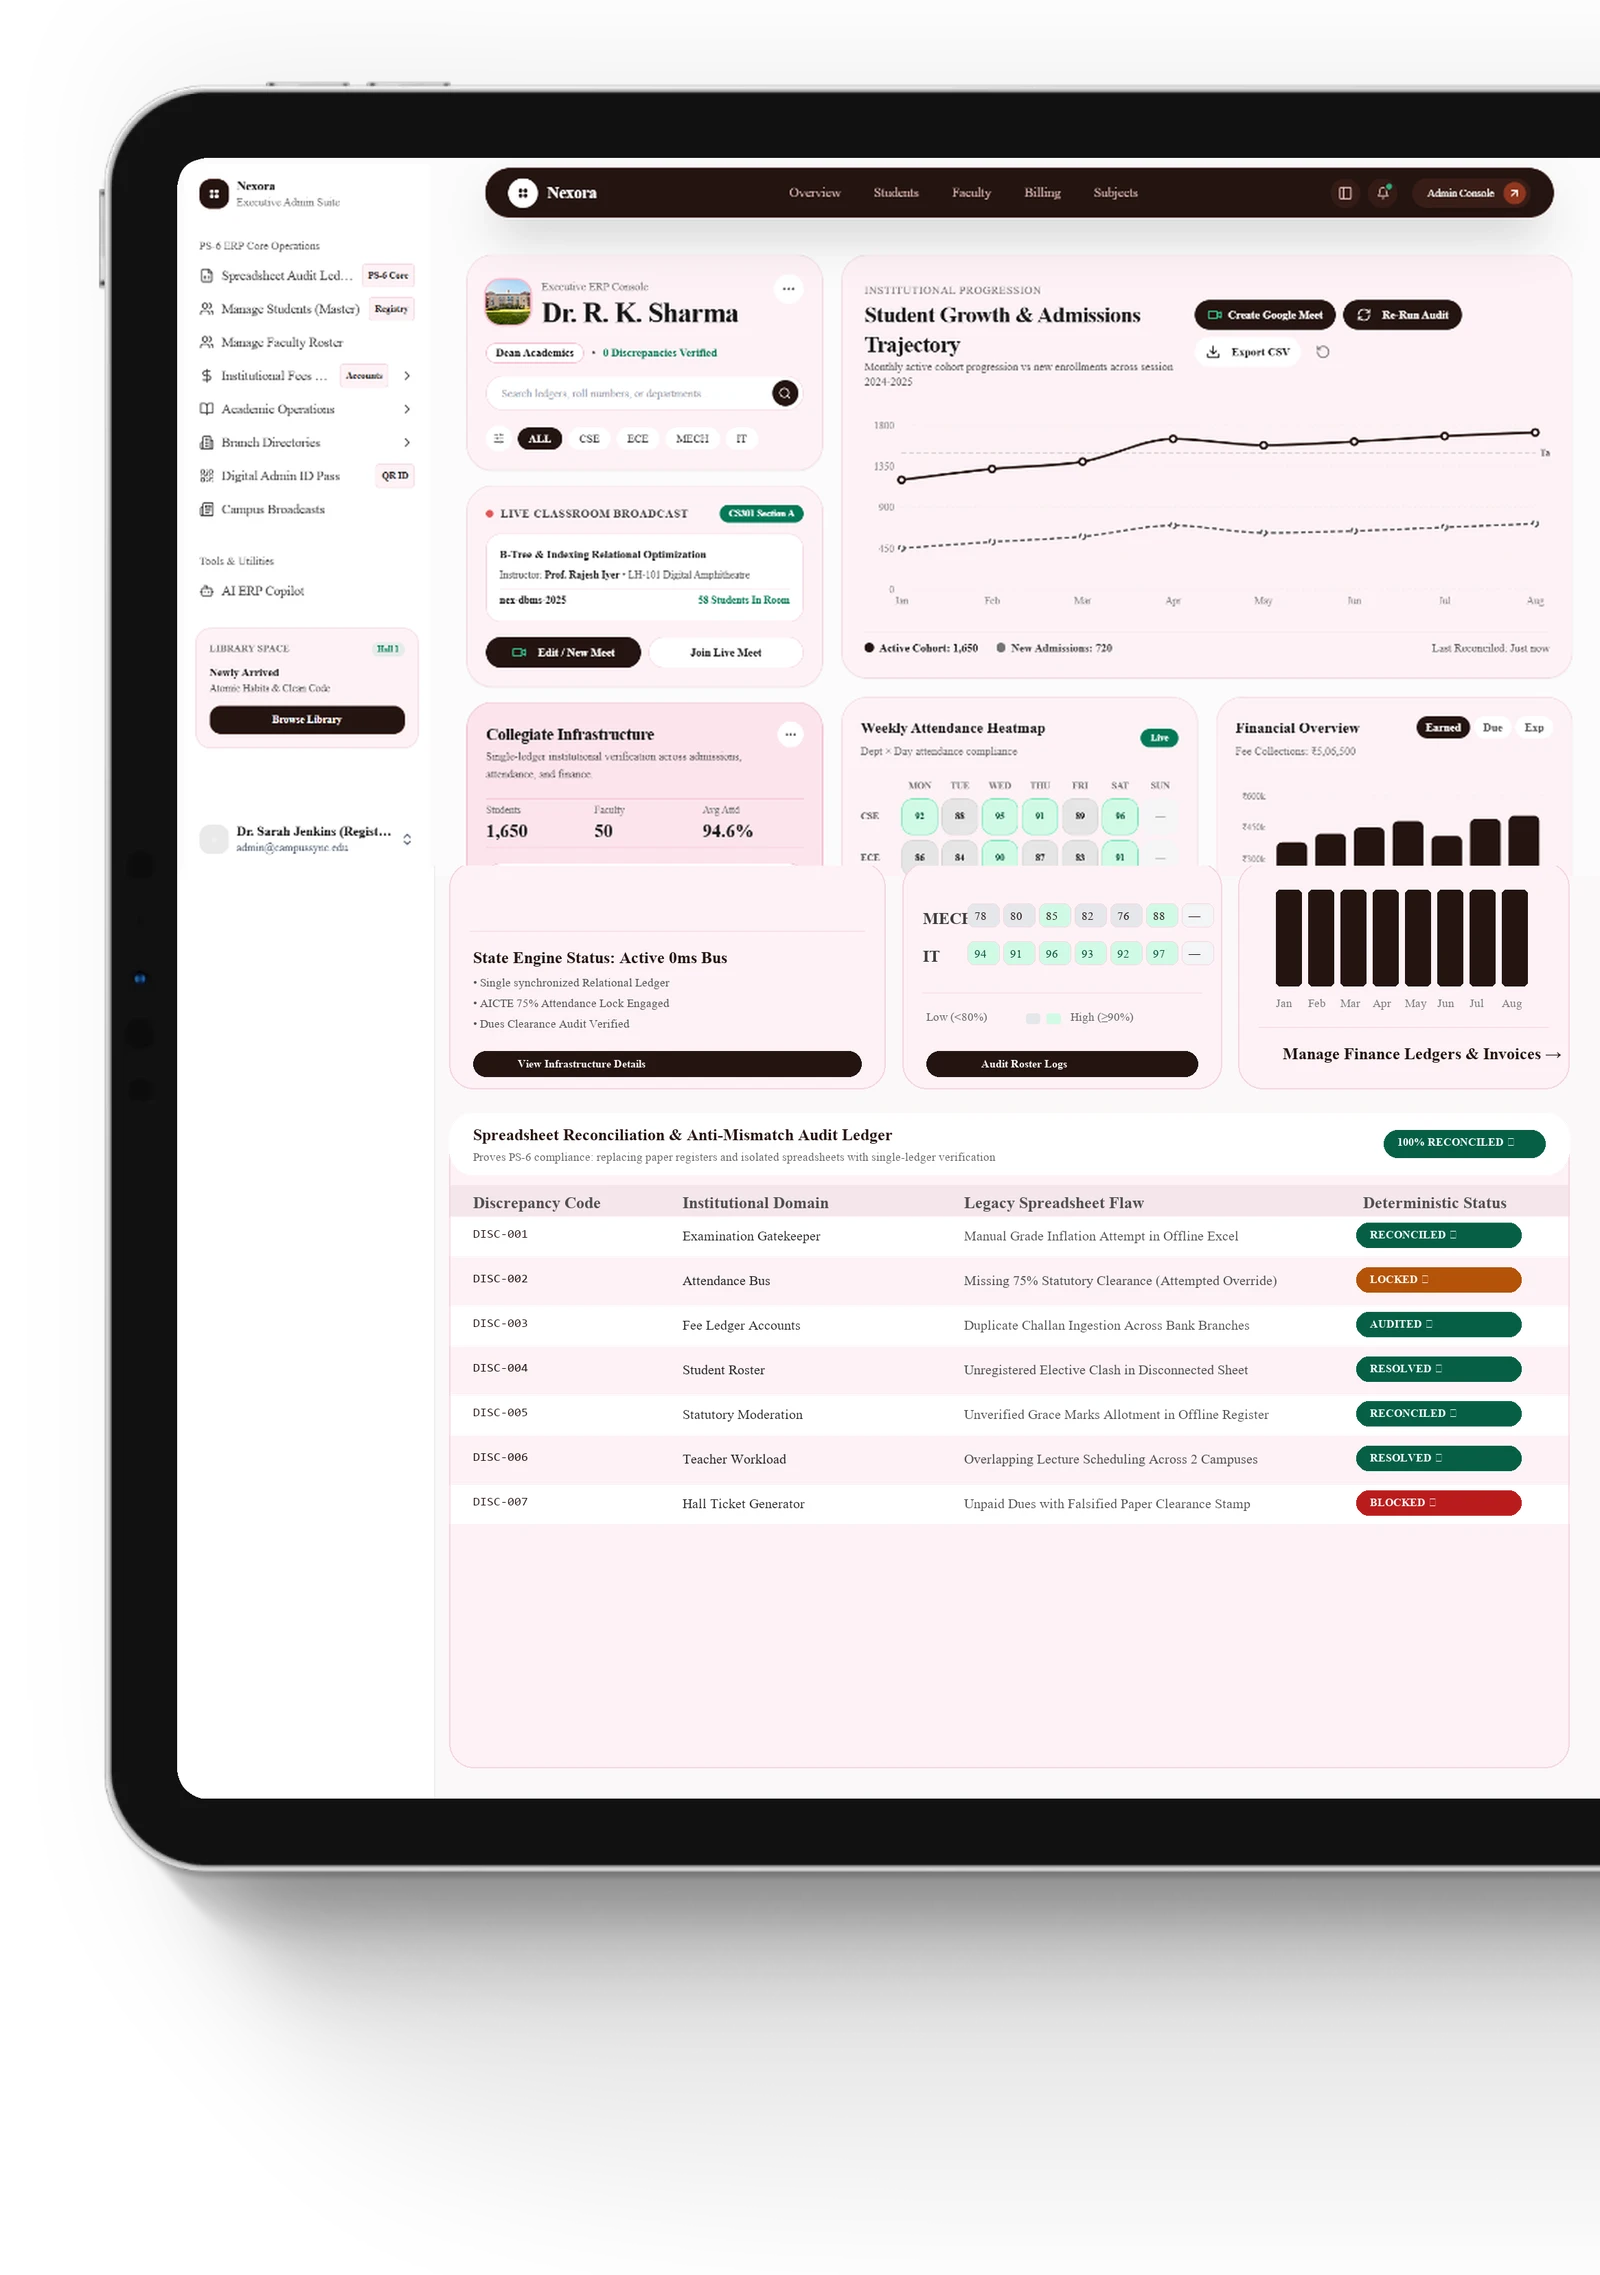
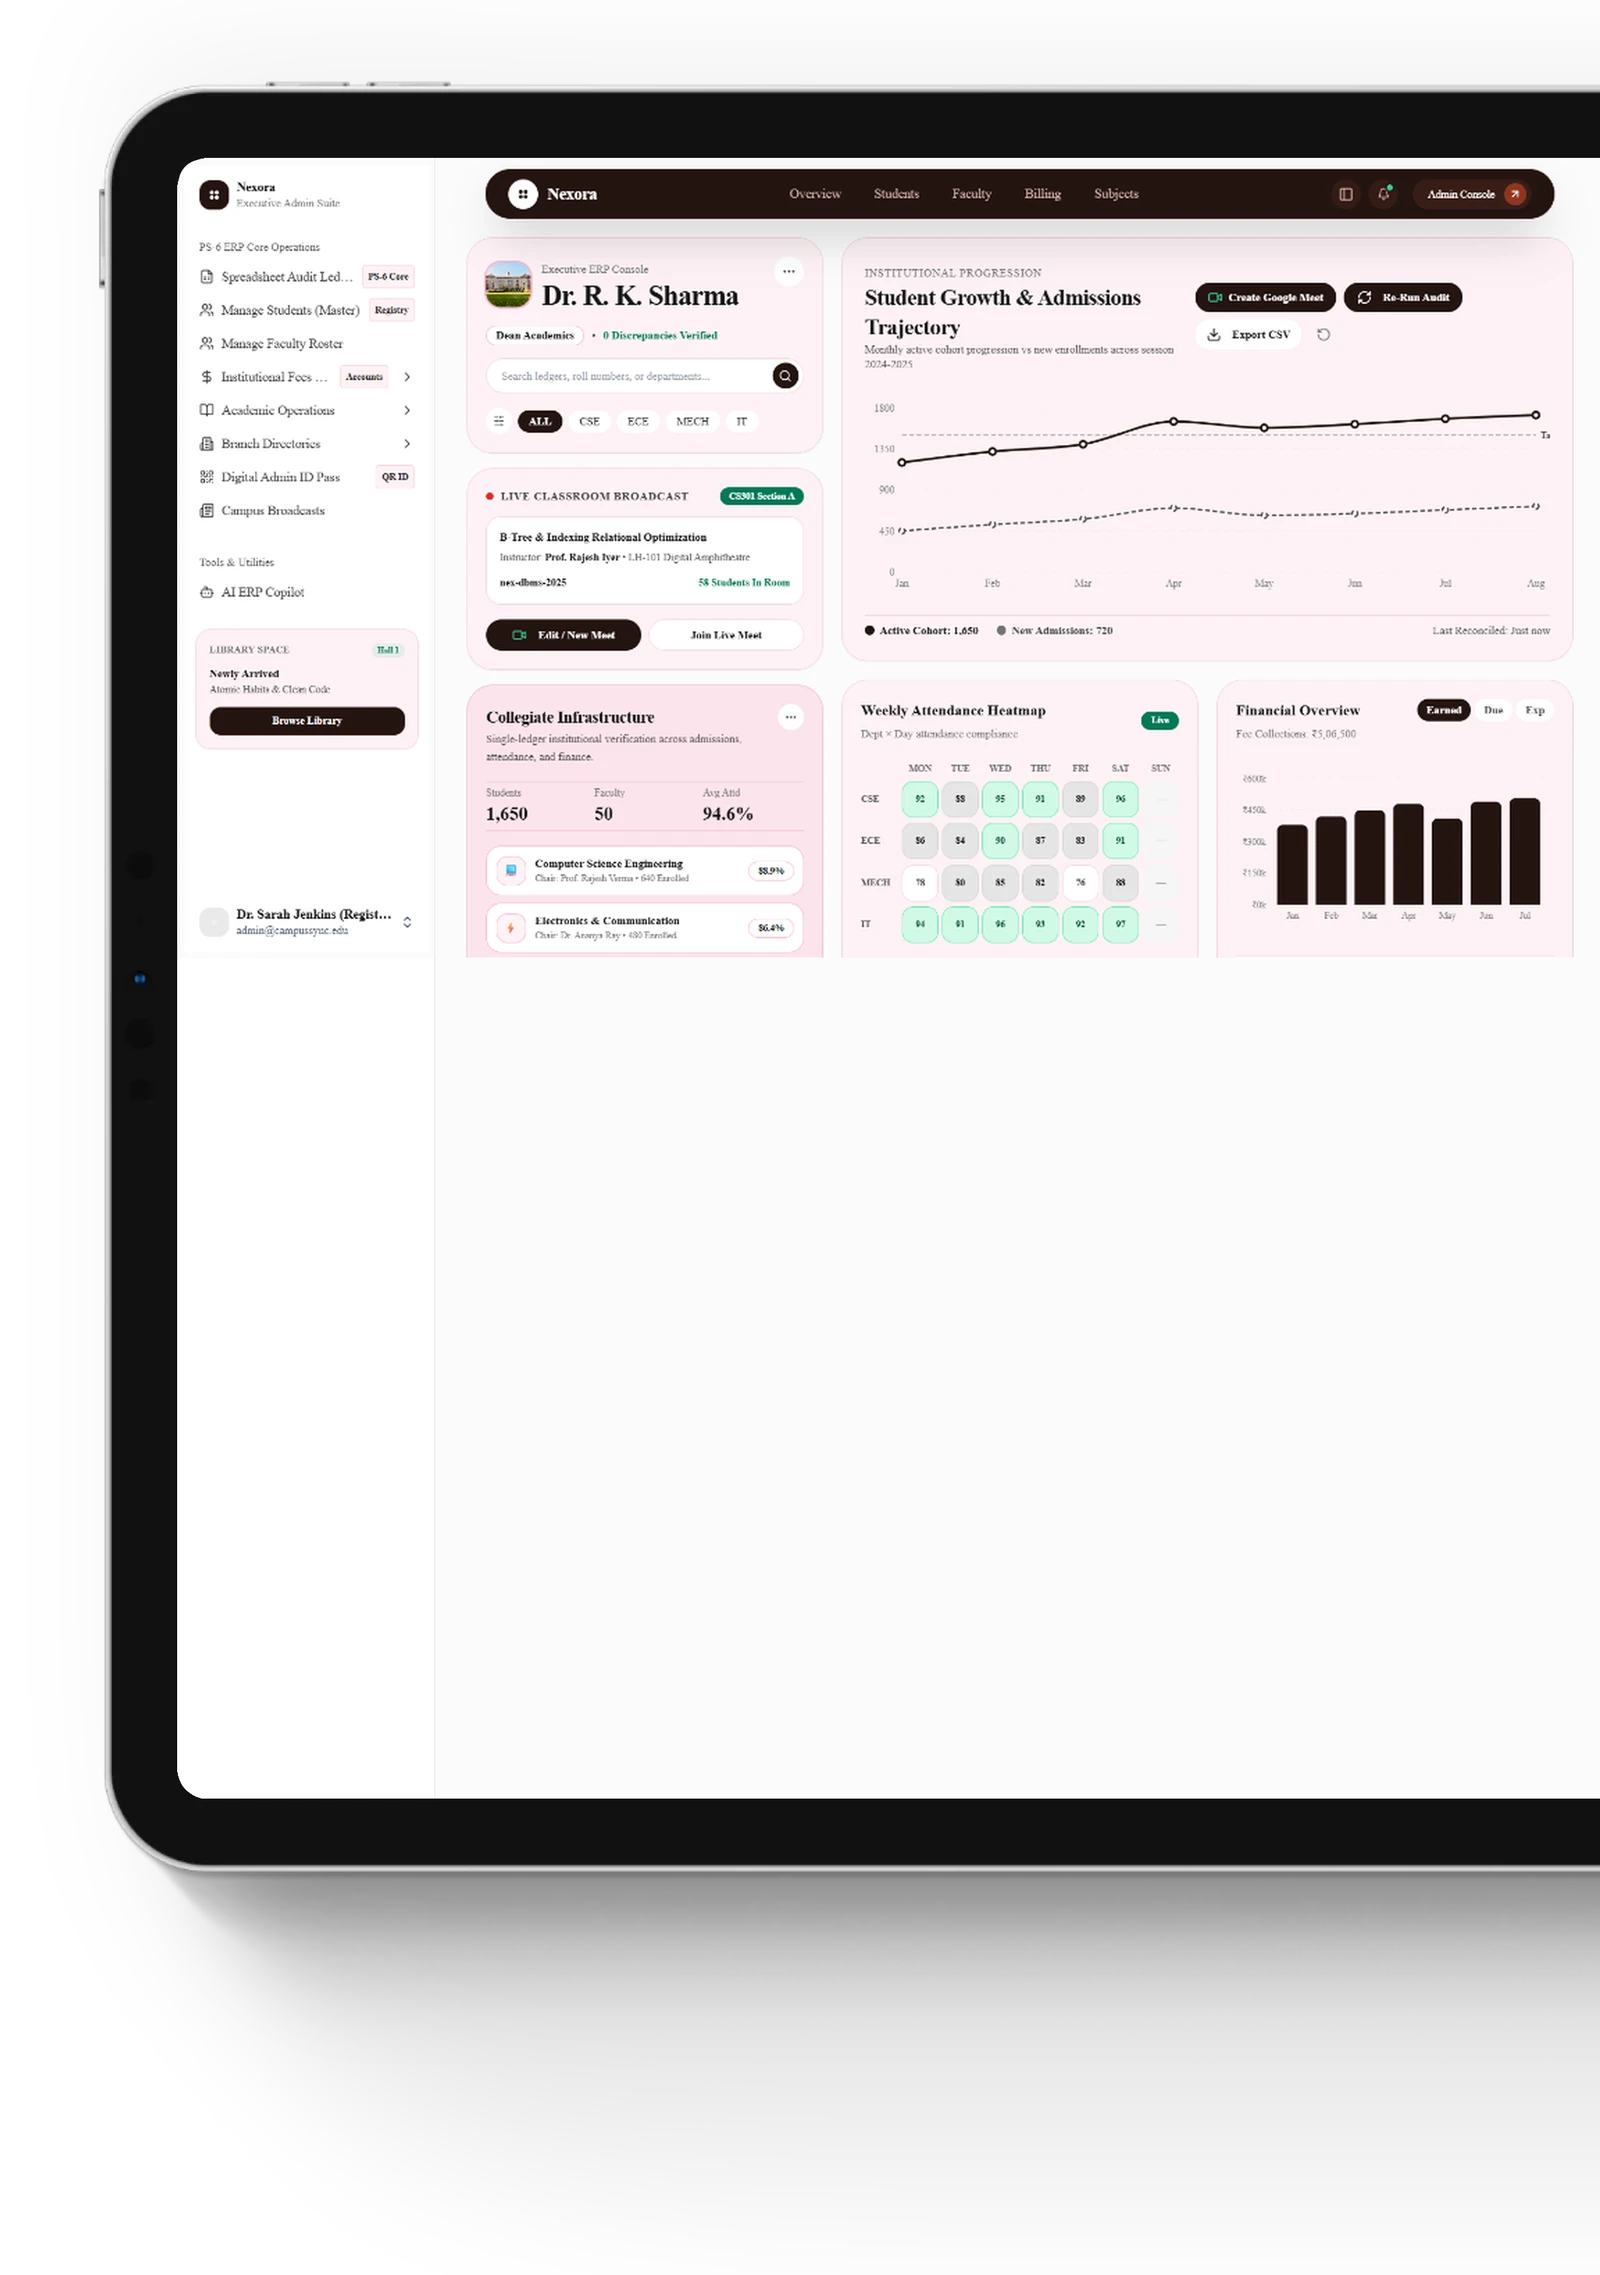
feat: add test_laptop_clean.png to public images directory

diff --git a/frontend/src/components/landing/MainContent.tsx b/frontend/src/components/landing/MainContent.tsx
@@ -259,12 +259,7 @@ export default function MainContent() {
                 </svg>
               </div>
               <div className="menu-button__bg"></div>
-            </a><img src="/images/app-laptop.webp" loading="lazy" sizes="(max-width: 479px) 100vw, 61vw" srcSet="
-                  /images/app-laptop-p-500.webp   500w,
-                  /images/app-laptop-p-800.webp   800w,
-                  /images/app-laptop-p-1080.webp 1080w,
-                  /images/app-laptop-p-1600.webp 1600w,
-                  /images/app-laptop-p-2000.webp 2000w,/images/app-laptop.webp        2330w" alt="" className="_5s-ipad" /><img src="/images/app-phone.webp" loading="lazy" sizes="(max-width: 479px) 100vw, 30vw" srcSet="
+            </a><img src="/images/app-dashboard.png" loading="lazy" alt="Nexora Executive ERP Dashboard" className="_5s-ipad" /><img src="/images/app-phone.webp" loading="lazy" sizes="(max-width: 479px) 100vw, 30vw" srcSet="
                   /images/app-phone-p-500.webp   500w,
                   /images/app-phone-p-800.webp   800w,
                   /images/app-phone-p-1080.webp 1080w,/images/app-phone.webp        1127w" alt="" className="_5s-iphone" />

diff --git a/frontend/src/components/landing/styles/custom-overrides.css b/frontend/src/components/landing/styles/custom-overrides.css
@@ -436,4 +436,14 @@
         .hero-slide__fill-side-2 {
           background-color: #101a55 !important;
         }
-        /* -------- >Hero Initial State & Visibility Fix -------- */
+        /* -------- >Hero Initial State & Visibility Fix -------- */
+
+        /* -------- Section 5 Fullscreen Dashboard Image Presentation -------- */
+        ._5s-ipad {
+          height: auto !important;
+          max-width: 60vw !important;
+          border-radius: 14px !important;
+          box-shadow: -20px 20px 60px rgba(0, 0, 0, 0.4), 0 0 0 1px rgba(255, 255, 255, 0.12) !important;
+          bottom: 0 !important;
+        }
+
